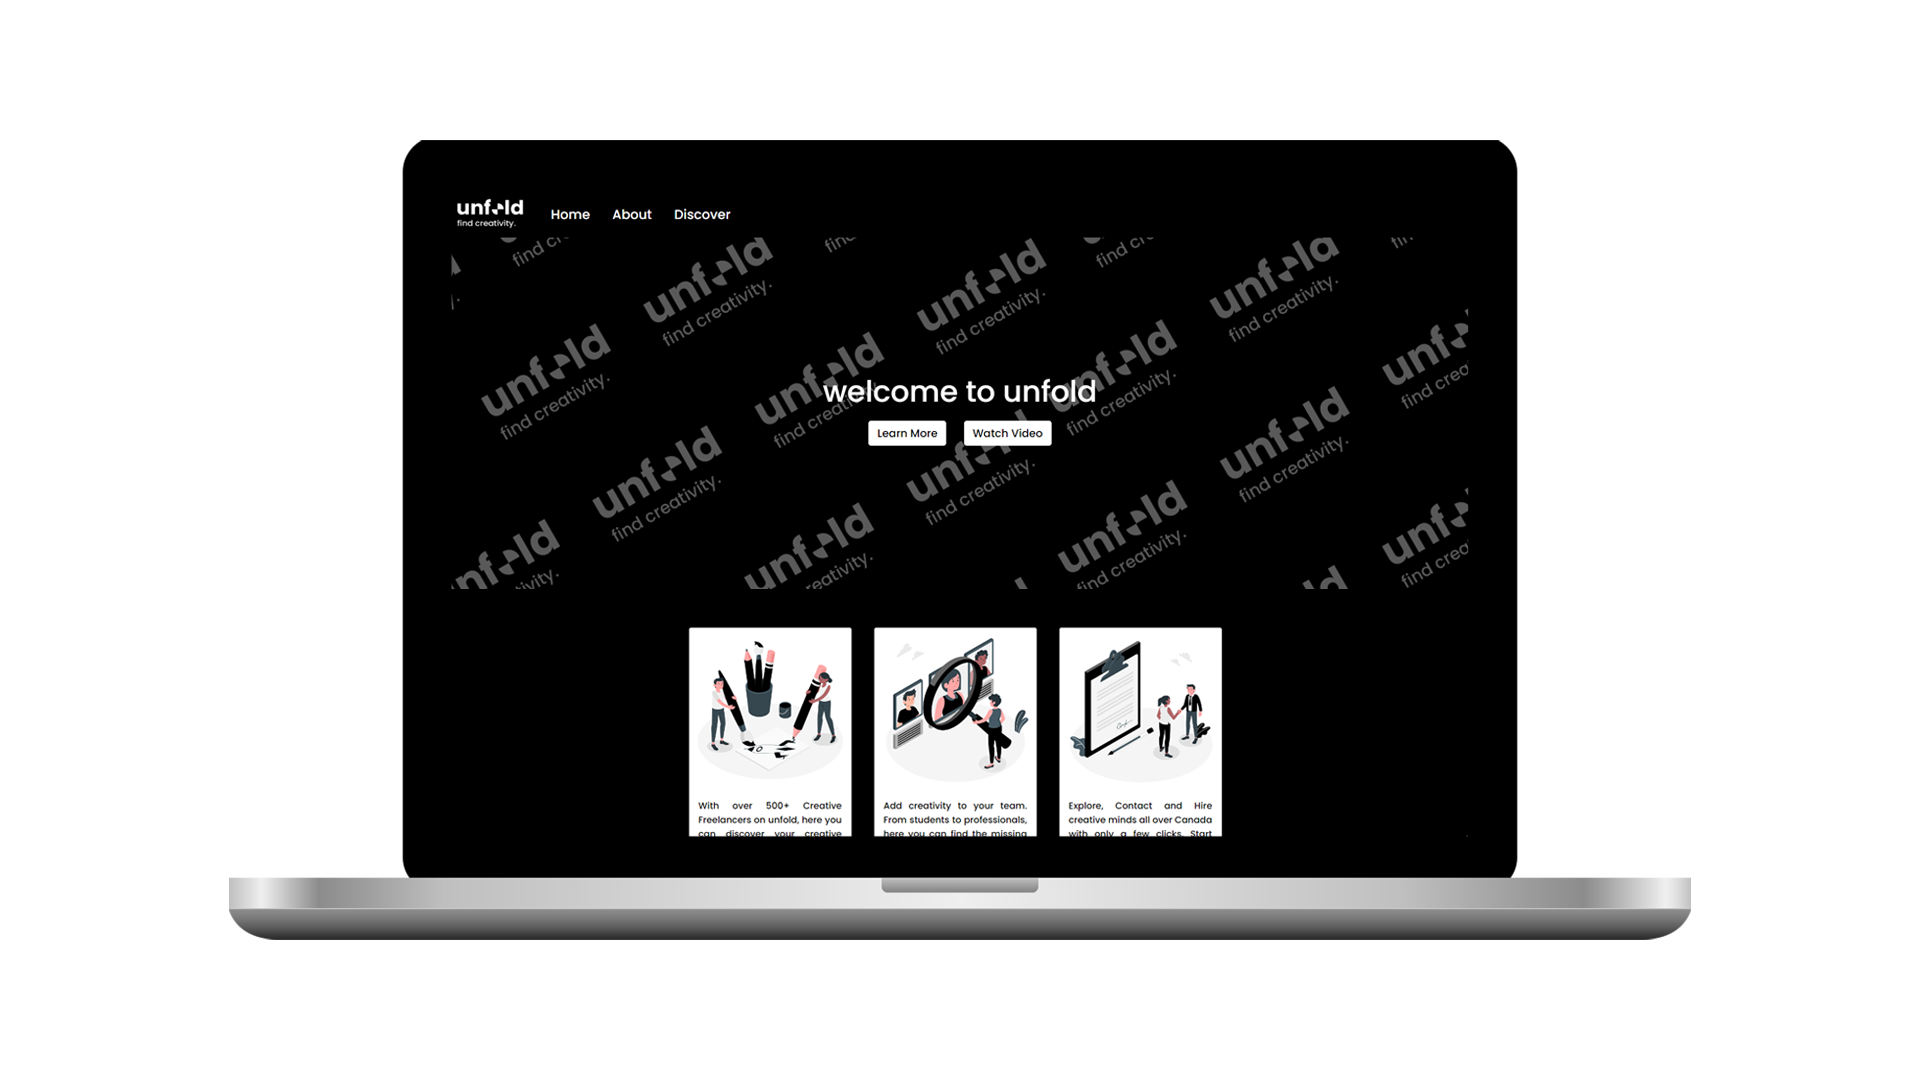
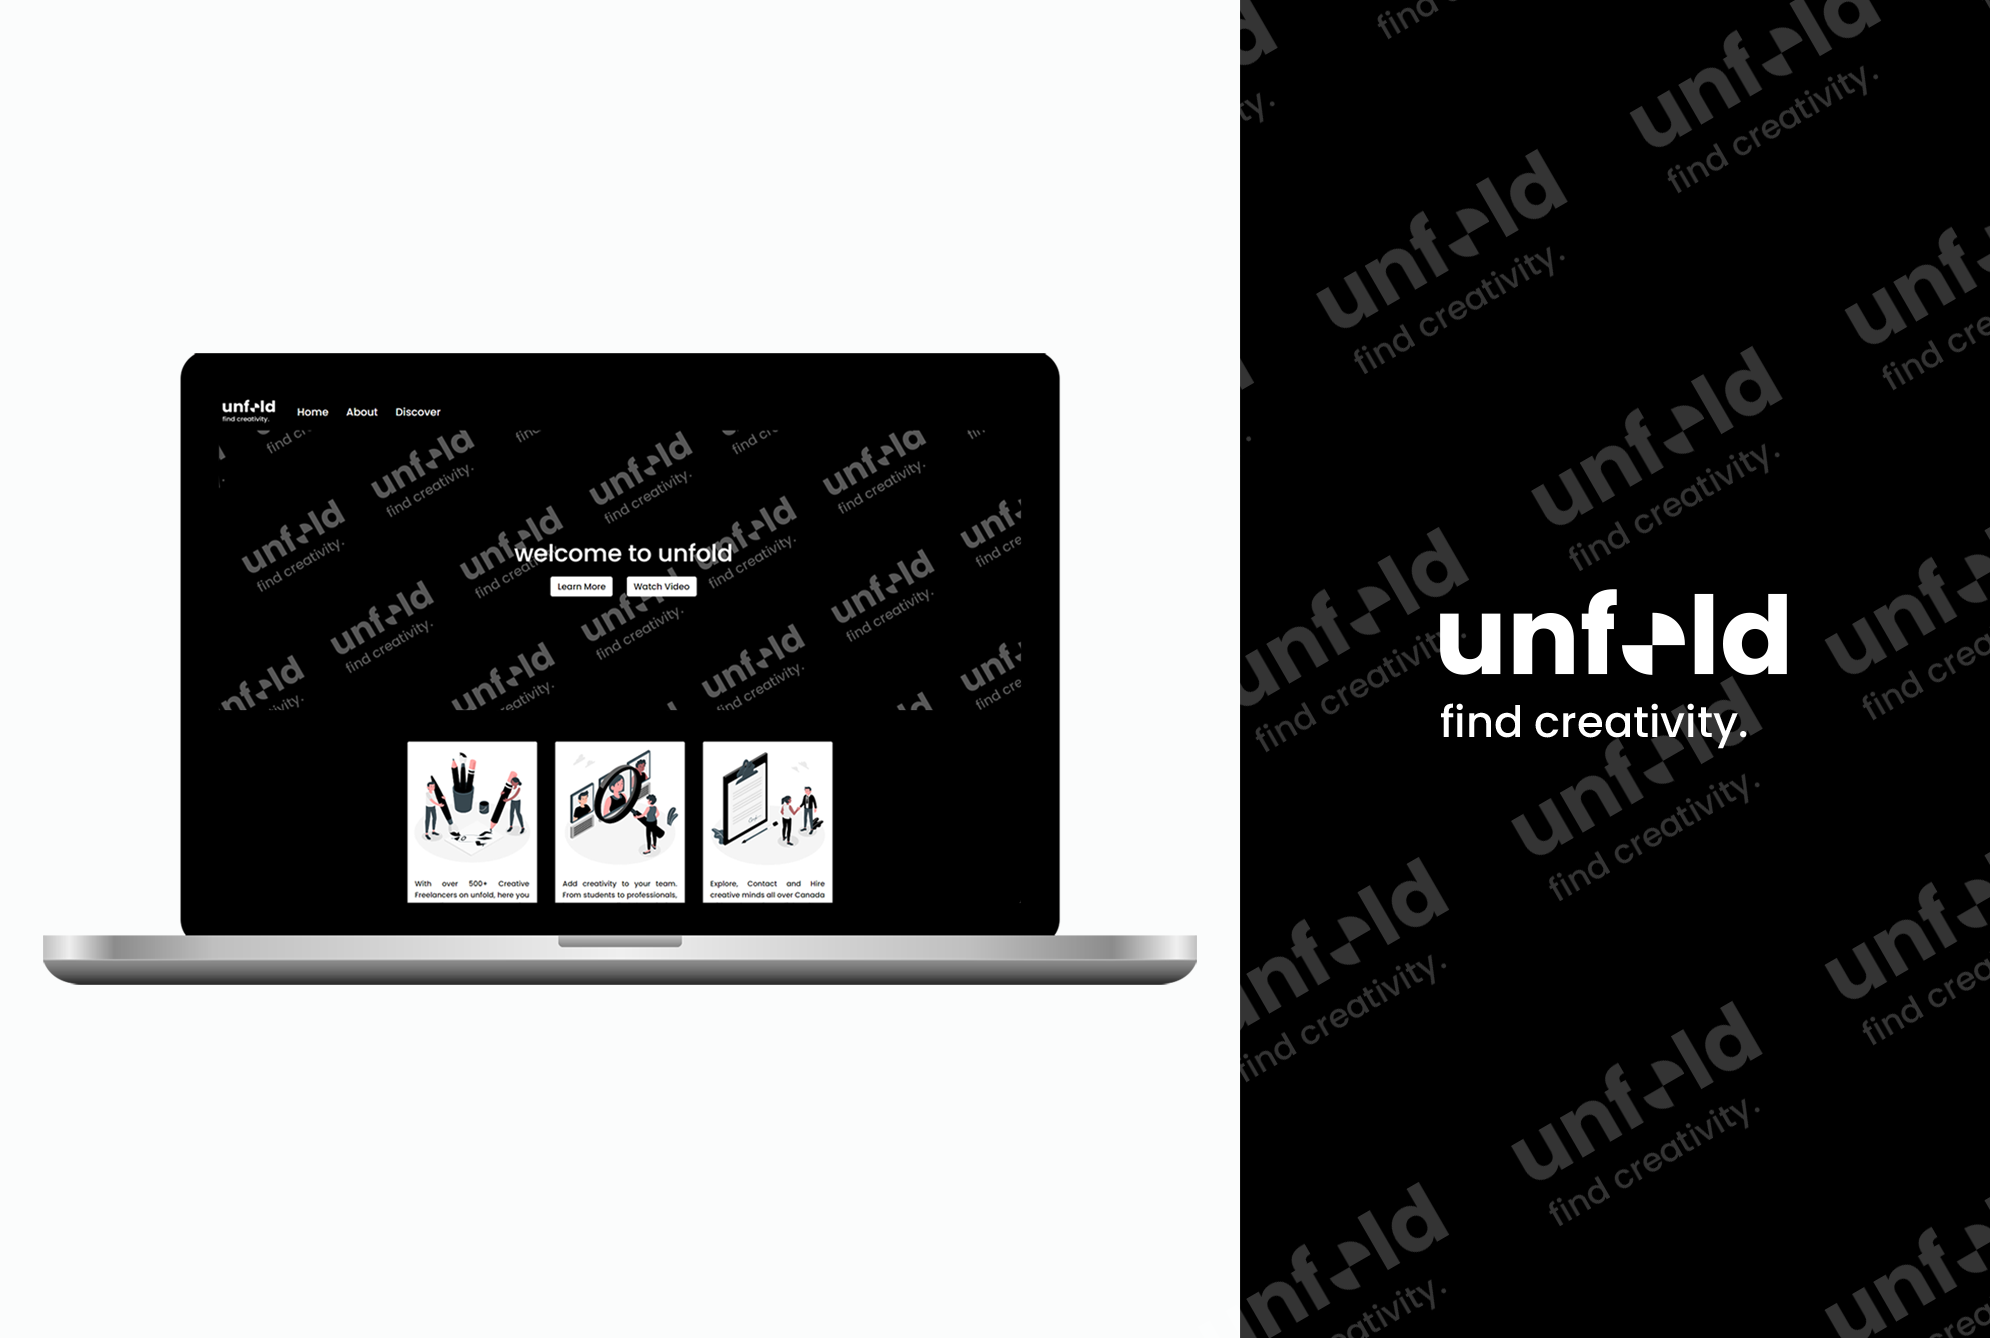
Asset Insertion

diff --git a/portfolio/src/components/cookdeck/cookdeck.js b/portfolio/src/components/cookdeck/cookdeck.js
@@ -1,6 +1,13 @@
 import React from 'react';
 import './cookdeck.scss';
-
+import cdcover from '../../assets/cookdeck/browser1.png';
+import cdcover2 from '../../assets/cookdeck/browser2.png';
+import cduser from '../../assets/cookdeck/cookdeck_UF.png';
+import cdwire from '../../assets/cookdeck/cookdeck_WF.png';
+import cdwire2 from '../../assets/cookdeck/cookdeck_WF2.png';
+import cdwire3 from '../../assets/cookdeck/cookdeck_WF3.png';
+import cdfinal from '../../assets/cookdeck/landing.png';
+import cdfinal2 from '../../assets/cookdeck/page1.png';
 
 export const cookDeck = ()=>{
 	return(
@@ -10,12 +17,12 @@ export const cookDeck = ()=>{
 
 			<div className="pro-txt">
 				<h2 className="pro-title">UX/UI Design, Front-End Development, Web Development</h2>
-				<h1 className="pro-name">coodeck</h1>
+				<h1 className="pro-name">cookdeck</h1>
 				<p className="pro-content">Explore, discover and cook recipes based on your lifestyle.</p>
 			</div>
 
 			<div className="pro-img">
-				<p>test</p>
+				<img src={cdcover} width="700" height="455" alt="Logo"/>
 			</div>
 		</div>
 
@@ -35,7 +42,7 @@ export const cookDeck = ()=>{
 			</div>
 
 			<div className="pro-img">
-				<p>test</p>
+				<img src={cdcover2} width="700" height="455" alt="Logo"/>
 			</div>
 		</div>
 
@@ -52,16 +59,22 @@ export const cookDeck = ()=>{
 			<p className="ptxt">The idea was to promote home cooking & healthy eating with an application that allows users to retrieve recipes based on lifestyles. The solution aims to provides users with relevant recipes based on their selected lifestyles. Recipes can vary in terms of ingredients required, prepping & cooking time and nutritional information. </p>
 		</div>
 
+		<p className="pro-txt-title">Userflow</p>
 		<div className="pro-userflow">
-			<p>Userflow</p>
+			<img src={cduser} width="785" height="590" alt="Logo"/>
 		</div>
 
+		<p className="pro-txt-title">Wireframes</p>
 		<div className="pro-wireframes">
-			<p>wireframes</p>
+			<img className="pwire" src={cdwire} width="410" height="580" alt="Logo"/>
+			<img className="pwire" src={cdwire2} width="410" height="580" alt="Logo"/>
+			<img className="pwire" src={cdwire3} width="410" height="580" alt="Logo"/>
 		</div>
 
+		<p className="pro-txt-title">Final Mockups</p>
 		<div className="pro-final">
-			<p>final mockups</p>
+			<img src={cdfinal} width="765" height="430" alt="Logo"/>
+			<img src={cdfinal2} width="765" height="430" alt="Logo"/>
 		</div>
 
 		<div className="pro-future">

diff --git a/portfolio/src/components/classtrack/classtrack.js b/portfolio/src/components/classtrack/classtrack.js
@@ -3,6 +3,10 @@ import './classtrack.scss';
 import ctcover from '../../assets/classtrack/cover.png';
 import ctuser from '../../assets/classtrack/classtrack_UF.png';
 import ctwire from '../../assets/classtrack/classtrack_WF.png';
+import ctfinal1 from '../../assets/classtrack/classtrack_f1.png';
+import ctfinal2 from '../../assets/classtrack/classtrack_f2.png';
+import ctfinal3 from '../../assets/classtrack/classtrack_f3.png';
+import ctfinal4 from '../../assets/classtrack/classtrack_f4.png';
 
 export const classtrack = ()=>{
 	return(
@@ -67,12 +71,15 @@ export const classtrack = ()=>{
 
 		<p className="pro-txt-title">Final Mockups</p>
 		<div className="pro-final">
-			<img src={ctcover} width="785" height="430" alt="Logo"/>
+			<img className="pfinal" src={ctfinal1} width="225" height="355" alt="Logo"/>
+			<img className="pfinal" src={ctfinal2} width="225" height="355" alt="Logo"/>
+			<img className="pfinal" src={ctfinal3} width="225" height="355" alt="Logo"/>
+			<img className="pfinal" src={ctfinal4} width="225" height="350" alt="Logo"/>
 		</div>
 
 		<div className="pro-future">
 			<p className="pro-txt-title">Future Outlook & Continuing Steps</p>
-			<p className="ptxt2">I will look to continue to work and develop classtrack in the future, refining and developing more features that promote academic organization among students. With the general idea of the application in mind, I would like to integrate classtrack into a full mobile app. </p>
+			<p className="ptxt">I will look to continue to work and develop classtrack in the future, refining and developing more features that promote academic organization among students. With the general idea of the application in mind, I would like to integrate classtrack into a full mobile app. </p>
 
 			<p className="pro-txt-title">Learning & Lessons</p>
 			<p className="ptxt">This was my first time designing for a wearable. My first challenge when designing classtrack was the size of smartwatches, as there is a greater restriction on screen size than other devices. I had to be more creative and design focused when thinking about the information I would display on the app. I had to think about adjustments in visuals & texts and how they would be impacted based on the screen size. </p>

diff --git a/portfolio/src/components/unfold/unfold.js b/portfolio/src/components/unfold/unfold.js
@@ -1,6 +1,13 @@
 import React from 'react';
 import './unfold.scss';
+import ufcover from '../../assets/unfold/browser1.png';
+import ufcover2 from '../../assets/unfold/browser2.png';
+import ufuser from '../../assets/unfold/unfold_UF.png';
+import ufwire from '../../assets/unfold/unfold_WF.png';
+import ufwire2 from '../../assets/unfold/unfold_WF2.png';
 
+import uffinal from '../../assets/unfold/landing.png';
+import uffinal2 from '../../assets/unfold/page1.png';
 
 export const unfold = ()=>{
 	return(
@@ -14,7 +21,7 @@ export const unfold = ()=>{
 			</div>
 
 			<div className="pro-img">
-				<p>test</p>
+				<img src={ufcover} width="700" height="455" alt="Logo"/>
 			</div>
 		</div>
 
@@ -35,7 +42,7 @@ export const unfold = ()=>{
 			</div>
 
 			<div className="pro-img">
-				<p>test</p>
+				<img src={ufcover2} width="700" height="455" alt="Logo"/>
 			</div>
 		</div>
 
@@ -51,16 +58,21 @@ export const unfold = ()=>{
 			<p className="ptxt">With the challenge in mind, I aimed to create a responsive landing page for creative students to find job opportunities. Using Bootstrap and SCSS, I wanted to design & develop a landing page that contained relevant information and imagery that can be developed into a full web application in the future.  </p>
 		</div>
 
+		<p className="pro-txt-title">Userflow</p>
 		<div className="pro-userflow">
-			<p>Userflow</p>
+			<img src={ufuser} width="785" height="590" alt="Logo"/>
 		</div>
 
+		<p className="pro-txt-title">Wireframes</p>
 		<div className="pro-wireframes">
-			<p>wireframes</p>
+			<img className="pwire" src={ufwire} width="410" height="580" alt="Logo"/>
+			<img className="pwire" src={ufwire2} width="410" height="580" alt="Logo"/>
 		</div>
 
+		<p className="pro-txt-title">Final Mockups</p>
 		<div className="pro-final">
-			<p>final mockups</p>
+			<img src={uffinal} width="765" height="430" alt="Logo"/>
+			<img src={uffinal2} width="765" height="430" alt="Logo"/>
 		</div>
 
 		<div className="pro-future">

diff --git a/portfolio/src/components/classtrack/classtrack.scss b/portfolio/src/components/classtrack/classtrack.scss
@@ -27,7 +27,7 @@
 	height: auto;
 	display: flex;
 	justify-content: center;
-	margin-bottom: 8rem;
+	margin-bottom: 4rem;
 }
 
 .pro-txt{
@@ -43,6 +43,7 @@
 	flex-direction: column;
 	justify-content: center;
 	margin-top: 5.0rem;
+	margin-left: 1.25rem;
 }
 
 .pro-title{
@@ -78,7 +79,7 @@
 }
 
 .ptxt{
-	font-size: 1.1rem;
+	font-size: 1.25rem;
 	margin-bottom: 3.0rem;
 	text-align: justify;
 }
@@ -102,9 +103,8 @@
 	text-align: justify;
 }
 
-
 .pro-txt-title2{
-	font-size: 1.1rem;
+	font-size: 1.25rem;
 	font-family: $body-stack;
 	font-weight: bold;
 	margin: 0;
@@ -132,6 +132,8 @@
 	display: flex;
 	justify-content: center;
 	align-items: center;
+	margin-top: 4rem;
+	margin-bottom: 8rem;
 }
 
 .pro-wireframes{
@@ -140,6 +142,8 @@
 	display: flex;
 	justify-content: center;
 	align-items: center;
+	margin-top: 4rem;
+	margin-bottom: 8rem;
 }
 
 .pro-final{
@@ -148,6 +152,8 @@
 	display: flex;
 	justify-content: center;
 	align-items: center;
+	margin-top: 4rem;
+	margin-bottom: 4rem;
 }
 
 .pro-future{
@@ -181,4 +187,8 @@
 
 .p-link3:hover{
 	color: $grey;
+}
+
+.pfinal{
+	margin-right: 2.5rem;
 }

diff --git a/portfolio/src/components/HomeProject3/HomeProject3.js b/portfolio/src/components/HomeProject3/HomeProject3.js
@@ -1,6 +1,6 @@
 import React from 'react';
 import './HomeProject3.scss';
-import ufcover from '../../assets/unfold/cover.png';
+import ufcover from '../../assets/unfold/landing.png';
 
 export const HomeProject3 = ()=>{
 	return(

diff --git a/portfolio/src/components/cookdeck/cookdeck.scss b/portfolio/src/components/cookdeck/cookdeck.scss
@@ -1,1 +1,5 @@
 @import '../../scss/main.scss';
+
+.pwire{
+	margin-right: 1.25rem;
+}
